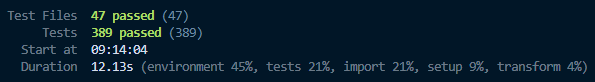
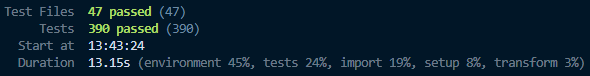
project-3 docs: finish TESTING.md

diff --git a/project3-portfolio-website/eslint.config.js b/project3-portfolio-website/eslint.config.js
@@ -18,6 +18,12 @@ export default defineConfig([
       globals: globals.browser,
       parserOptions: { ecmaFeatures: { jsx: true } },
     },
+    rules: {
+      eqeqeq: "error", // always === and !==, never == and !=
+      "no-console": "warn", // no leftover console.log in shipped code
+      "prefer-const": "error", // use const when a variable is never reassigned
+      "no-var": "error", // let and const only
+    },
   },
   {
     // Tell ESLint that describe/it/expect/vi are globals in test files.

diff --git a/project3-portfolio-website/TESTING.md b/project3-portfolio-website/TESTING.md
@@ -116,9 +116,6 @@ The tests in `src/test/integration/` render the real routes with a memory router
 ### Test results
 
 **47 test files, 390 tests: all PASS** (`npm run test:run`).
-
-TODO update image
-
 ![Vitest result](./readme-assets/vitest-result.png)
 
 
@@ -215,11 +212,41 @@ What changed because of the testing:
 
 ![Performance result](./readme-assets/performance-result.png)
 
+
 ## Validator testing
 
-- HTML: [W3C Markup Validator](https://validator.w3.org/) on the built pages – TODO
-- CSS: [W3C Jigsaw](https://jigsaw.w3.org/css-validator/) – TODO (CSS Modules output in `dist/`)
-- ESLint: `npm run lint` with no errors – PASS
+### HTML
+
+[W3C Markup Validator](https://validator.w3.org/) – Result for all 7 pages - PASSED
+<br>![Passed without errors](./readme-assets/w3c-html-result.png)
+
+### CSS
+[W3C Jigsaw CSS Validator](https://jigsaw.w3.org/css-validator/) – Result for the bundled CSS of the live site – 3 messages, all false positives
+<br>![W3C CSS validator showing 3 errors for container-type and cqi units](./readme-assets/w3c-css-result.png)
+
+All 3 messages come from the Home page intro tile (`HomePage.module.css`): `container-type: inline-size` and two `font-size` values with the `cqi` unit. These are CSS container queries, which every current browser supports, but the validator doesn't know them yet. I kept the CSS as it is, because it lets the intro text size itself from its tile and not from the screen.
+
+**Known validator limitation (not fixed on purpose):** the validator reports 3 messages for the Home page intro tile in `HomePage.module.css`. CSS Modules are bundled into one file, so they also show up when validating other pages, such as the 404 page.
+
+| Selector | Message | Why it is not a real error |
+|----------|---------|----------------------------|
+| `.intro` | Property `container-type` doesn't exist: `inline-size` | Part of CSS container queries. Supported in all current browsers (Baseline 2023), but unknown to the validator |
+| `.jobTitle` | Value Error: `font-size` Parse Error `4.6cqi)` | `cqi` is a container query unit (1% of the container's inline size) that the validator doesn't recognise |
+| `.summary` | Value Error: `font-size` Parse Error `6.5cqi)` | Same as above |
+
+### JavaScript
+[ESLint](https://eslint.org/) (`npm run lint`) – all `.js` and `.jsx` files in the project – PASSED with no errors or warnings.
+
+The rules in `eslint.config.js` are:
+- ESLint's recommended rules (unused variables, undefined variables, unreachable code and so on)
+- the Rules of Hooks (`eslint-plugin-react-hooks`), which catch hooks called in the wrong place or with missing dependencies
+- `eslint-plugin-react-refresh`, which keeps components hot-reloadable in Vite
+- `eslint-config-prettier`, which turns off rules that clash with Prettier's formatting
+- four extra rules of my own: `eqeqeq` (always `===`), `no-console` (no leftover `console.log`), `prefer-const` and `no-var`
+
+ESLint only prints problems, so a clean run shows no "pass" message. The screenshot shows `npm run lint` finishing with no output after the command line.
+
+![Terminal after npm run lint: no errors or warnings listed, command finished cleanly](./readme-assets/lint-result.png)
 
 
 ## Lighthouse
@@ -326,6 +353,7 @@ Every page was tested with Tab, Shift+Tab, Enter, Space and Esc only.
 
 All text pairs were calculated when planning (all pass WCAG AA). WAVE then confirmed it with 0 contrast errors on every page.
 
+
 ## Bugs
 
 ### Fixed bugs
@@ -343,7 +371,6 @@ All text pairs were calculated when planning (all pass WCAG AA). WAVE then confi
 - The contact form had no length limits, so a very long text could be sent. The fields now stop at 100 (name), 254 (email) and 2000 (message) characters, and a message needs at least 20.
 - After sending the contact form, pressing "Contact" in the menu again kept showing "Thank you!" instead of a new form. A link to the page you are already on does not remount anything, because it is the same route, so the form kept its `status` of `"success"`. The form now gets `location.key` as its `key`. That is new on every navigation, even to the same page, so React starts a fresh, empty form. Only the form is keyed, not the whole page, so the project filter (`?tech=`) still does not restart its page. A new integration test covers it.
 - **Lighthouse SEO score was 92: "robots.txt is not valid"** (Home): the site had no `robots.txt`, and the SPA rewrite in `vercel.json` sends every unknown address to `index.html`. Lighthouse asked for `/robots.txt`, got the HTML page back and tried to read it as rules. Fixed by adding `public/robots.txt` (`User-agent: *`, `Allow: /`). Vercel serves real files before it applies rewrites, so the file is returned as plain text. SEO is now 100.
-- TODO: add bugs found in later steps
 
 ### Unfixed bugs
 
